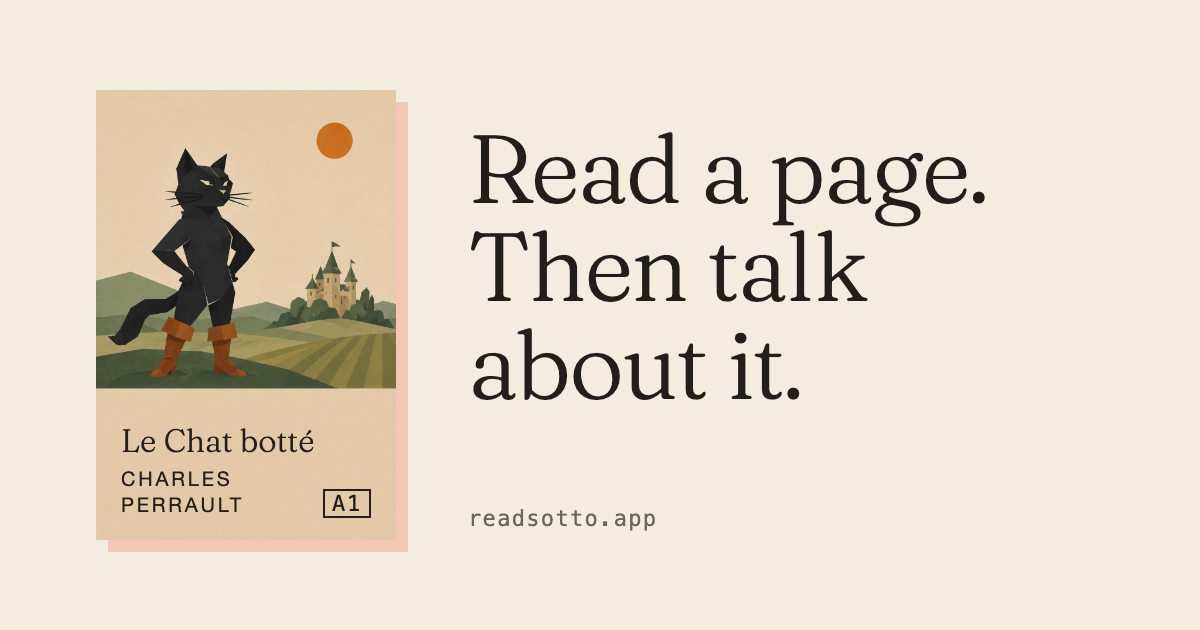
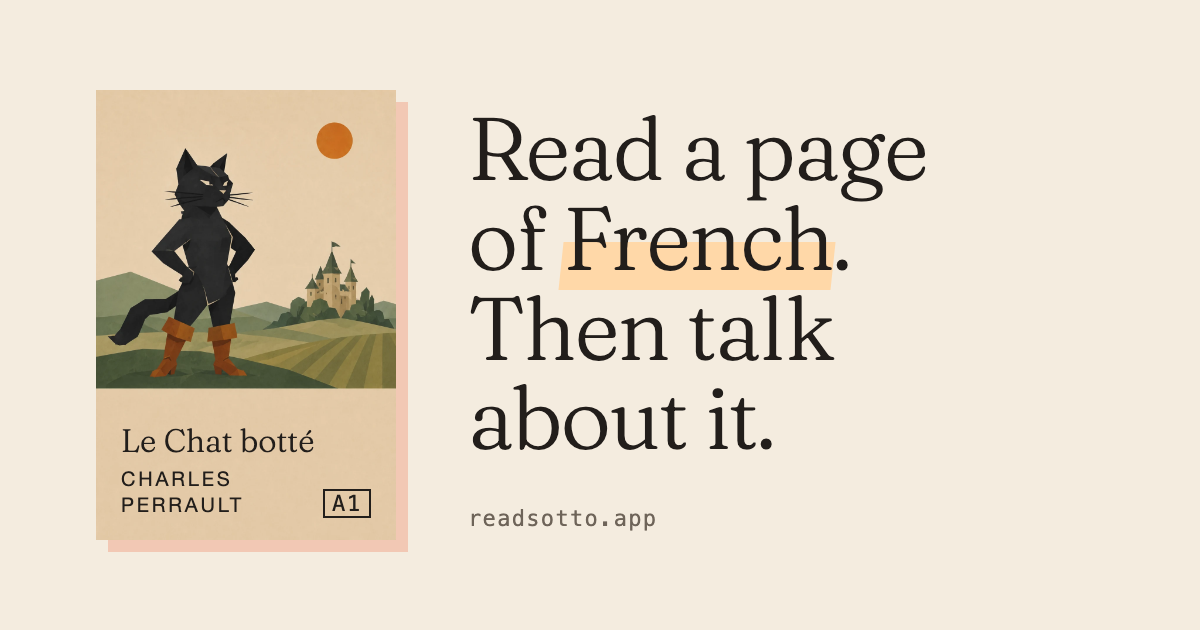
design: the link card names the language
At 300px in a message bubble only the headline survives, and "Read a page. Then talk about it."
fits a book club as well as a reader for learners. The headline is now "Read a page of French.
Then talk about it." with French on the reader's saved-word marker (#FFD8A8, the landing's .mark),
88px in four lines; cover, press and URL line unchanged. og:title becomes "Sotto, learn a language
by reading" so the caption under the image widens it past French; the descriptions name French,
Spanish, Italian, Portuguese and more; the image URL bumps to ?v=3 so cached previews refresh.
og-card.mjs takes a variant name (french-page ships; french-short and generic render as alternates)
and reports the headline and marker geometry. Spec in planning/design/OG-CARD-V2-SPEC.md.

Changed region(s): [[0.37, 0.181, 0.8325, 0.7238]]

diff --git a/apps/client/web/landing/index.html b/apps/client/web/landing/index.html
@@ -4,29 +4,29 @@
     <meta charset="utf-8" />
     <meta name="viewport" content="width=device-width, initial-scale=1" />
     <meta name="color-scheme" content="light" />
-    <title>Sotto, a free graded reader</title>
+    <title>Sotto, learn a language by reading</title>
     <meta
       name="description"
-      content="Sotto is a free, open-source graded reader. Read a story at your level, tap any word for a translation, hear it narrated, talk it over with a voice tutor."
+      content="Sotto is a free, open-source graded reader for language learners. Read a story in French, Spanish, Italian, Portuguese and more at your level, tap any word for a translation, hear it narrated, talk it over with a voice tutor."
     />
     <meta property="og:type" content="website" />
     <meta property="og:site_name" content="Sotto" />
-    <meta property="og:title" content="Sotto, a free graded reader" />
+    <meta property="og:title" content="Sotto, learn a language by reading" />
     <meta
       property="og:description"
-      content="Read a page at your level, tap any word, hear it read, then talk it over with a voice tutor. Free and open source."
+      content="Read a page of French, Spanish, Italian, Portuguese and more at your level, tap any word, hear it read, then talk it over with a voice tutor. Free and open source."
     />
     <meta property="og:url" content="https://readsotto.app/" />
-    <meta property="og:image" content="https://readsotto.app/og.png?v=2" />
+    <meta property="og:image" content="https://readsotto.app/og.png?v=3" />
     <meta property="og:image:width" content="1200" />
     <meta property="og:image:height" content="630" />
     <meta
       property="og:image:alt"
-      content="A Sotto book, Le Chat botté, beside the line Read a page. Then talk about it."
+      content="A Sotto book, Le Chat botté, beside the line Read a page of French. Then talk about it."
     />
     <meta name="twitter:card" content="summary_large_image" />
-    <meta name="twitter:title" content="Sotto, a free graded reader" />
-    <meta name="twitter:image" content="https://readsotto.app/og.png?v=2" />
+    <meta name="twitter:title" content="Sotto, learn a language by reading" />
+    <meta name="twitter:image" content="https://readsotto.app/og.png?v=3" />
     <link rel="icon" href="/favicon.ico" />
     <link rel="manifest" href="/manifest.webmanifest" />
     <link rel="apple-touch-icon" href="/icons/apple-touch-icon.png" />

diff --git a/planning/design/OG-CARD-V2-SPEC.md b/planning/design/OG-CARD-V2-SPEC.md
@@ -1,0 +1,15 @@
+# Sotto link card, revision 2: the language in the headline
+
+File: `apps/client/public/og.png` (1200 x 630), rendered by `planning/design/og-card.mjs`. Revision of the 2026-09-08 card, no new ledger row.
+
+**Diagnosis.** In an iMessage bubble the card is 300px wide. What survives: the headline (about 24px), the cover as a silhouette, and the caption under the image. What does not: the A1 stamp (5px) and the French title (8px), which were the only language tells. The headline "Read a page. Then talk about it." fits a book club as well as a reader for learners. Nothing legible says language.
+
+**Fit read.** Job: a stranger persuaded in one second from a friend's text; phone, 300px, one committed mode. Register unchanged: poster.
+
+**The move.** Put the language into the one element that survives delivery, and mark it the way the app marks a saved word: "Read a page of French. Then talk about it." with "French" on the reader's marker (`#FFD8A8`, 0.55em, skew -6deg, the landing's `.mark`). One device, the product's own, naming the category and the mechanism in the same 250px. Headline at 88px/1.02, four lines, top 104. Cover, press, URL line unchanged. The caption carries the other languages: og:title "Sotto, learn a language by reading"; og:description names French, Spanish, Italian, Portuguese and more (all present in `packages/content/packs`). Meta tags bump to `?v=3` so cached previews refresh.
+
+**Alternates rendered for Noel to point at.** B "Read French. Then talk about it." at 96px in three lines. C "Learn a language by reading it. Then talk about it." at 84px, language-generic.
+
+**Ban list.** No kicker line above the headline (invisible at 300px). No gloss pop invented on the cover. No flag, no globe. No second hue beyond the marker.
+
+**Definition of done.** Card read at 1200 and inside a 300px bubble mock with its caption; marker legible at 300px; ink on marker and ink on canvas above 4.5:1; generator reproduces the shipped PNG; live og.png byte-identical after deploy.
